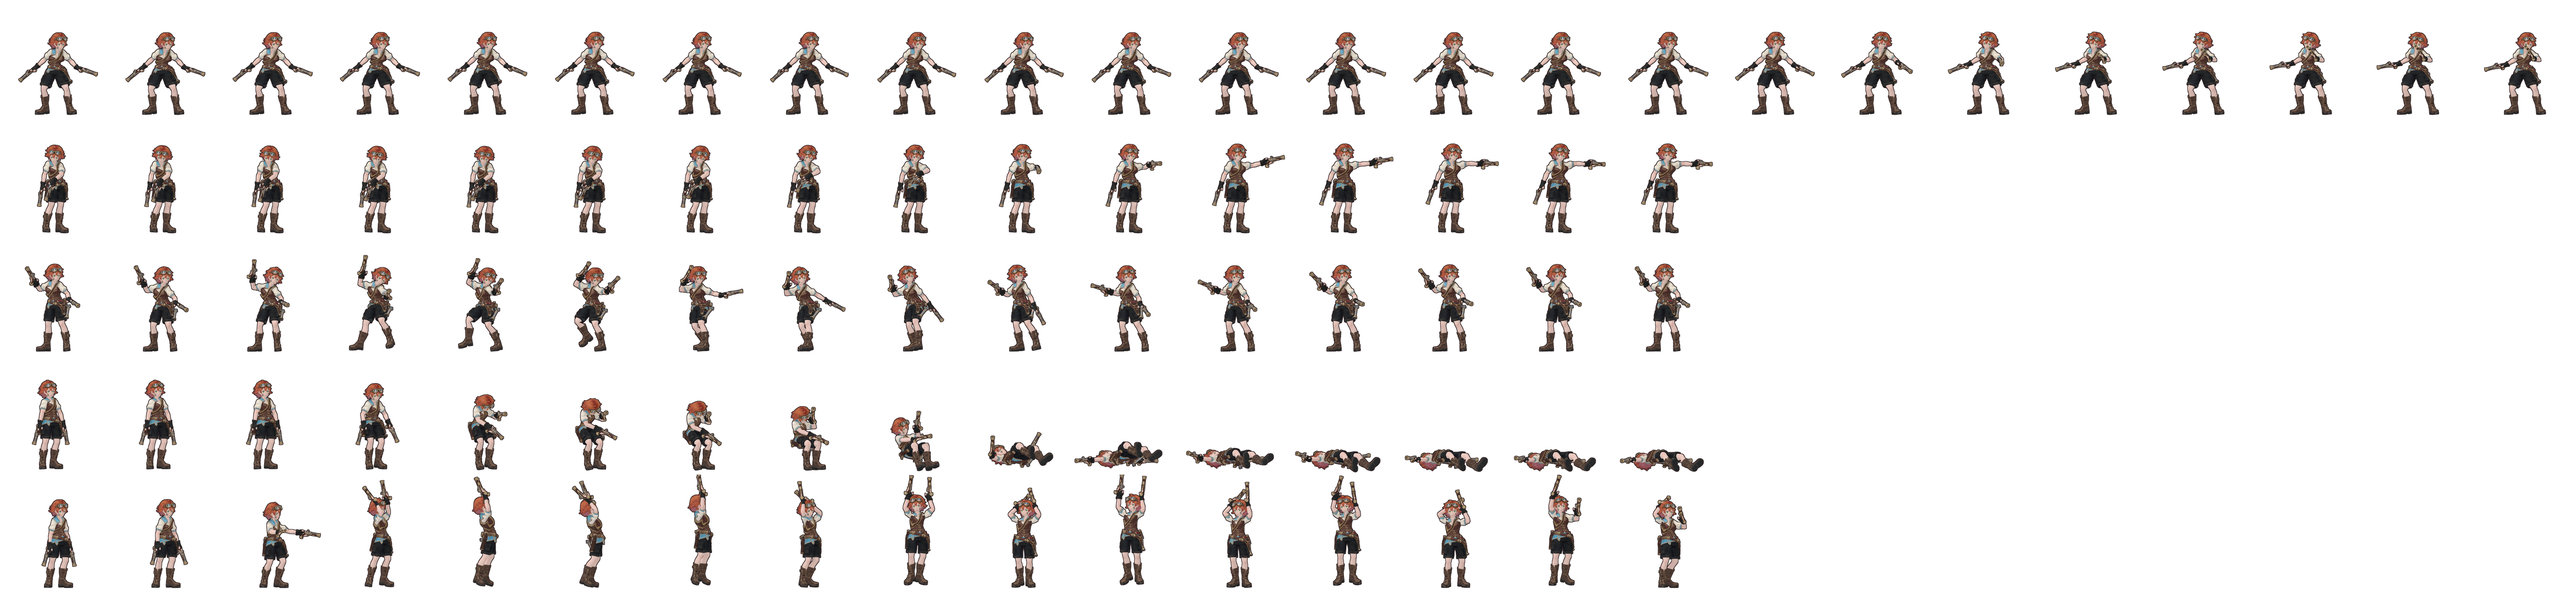
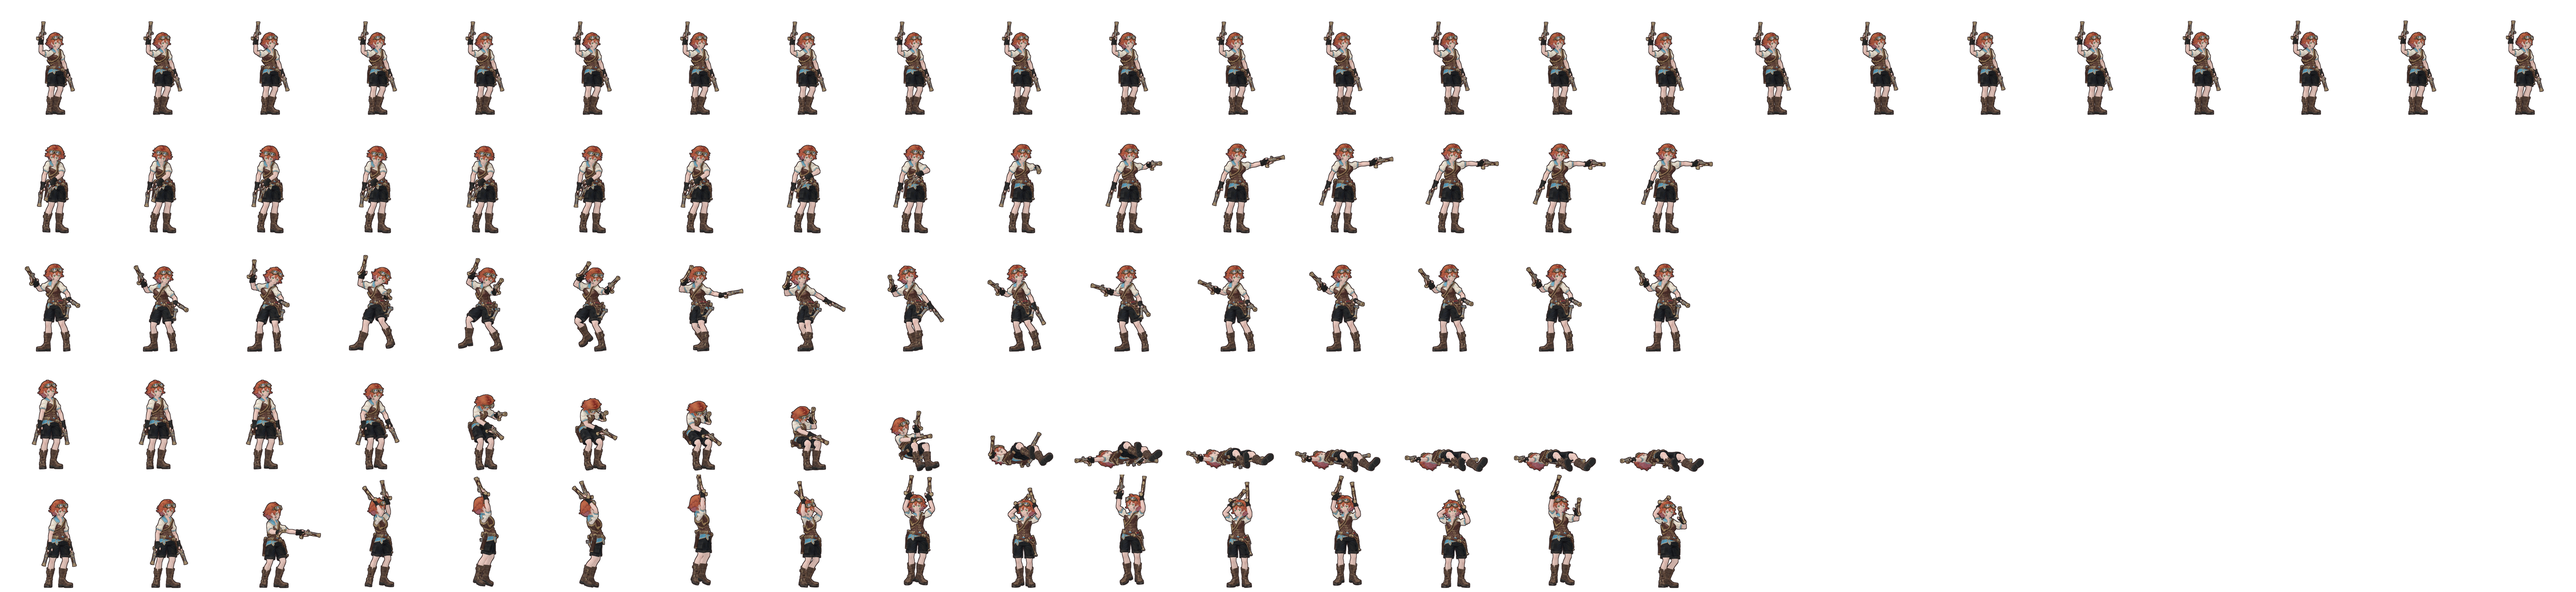
Кая: ожидание с поднятым пистолем стволом вверх и вторым у бедра
render_sprites.py: позы рук поверх клипа (pose=idle:pirate) — кости рук
доворачиваются в заданные направления, кривые этих костей из клипа
убираются, чтобы рендер их не перетирал.

Changed region(s): [[0.0, 0.0312, 1.0, 0.2188]]

diff --git a/tools/meshy/render_sprites.py b/tools/meshy/render_sprites.py
@@ -30,7 +30,23 @@ OPTS = [a.split("=", 1) for a in args[1:]]
 TURN = math.radians(float(next((v for k, v in OPTS if k == "turn"), math.degrees(TURN))))
 PROPS = [v.split(":") for k, v in OPTS if k == "prop"]
 MAX_FRAMES = int(next((v for k, v in OPTS if k == "frames"), MAX_FRAMES))
-CLIPS = {k: v for k, v in OPTS if k not in ("turn", "prop", "frames")}
+# pose=<клип>:<заготовка> — поверх клипа держать руки в позе из POSES (например, idle:pirate).
+POSE_OF = dict(v.split(":") for k, v in OPTS if k == "pose")
+CLIPS = {k: v for k, v in OPTS if k not in ("turn", "prop", "frames", "pose")}
+
+# Позы рук поверх клипа: кость → направление (от начала к концу кости) в системе персонажа,
+# который смотрит на камеру: -X — его правая сторона, -Y — вперёд, +Z — вверх.
+POSES = {
+    # Пистоль в поднятой правой руке стволом вверх, левая опущена к бедру стволом вниз.
+    "pirate": [
+        ("RightArm", (-1.0, 0.0, 0.05)),
+        ("RightForeArm", (-0.05, -0.1, 1.0)),
+        ("RightHand", (0.0, -0.12, 1.0)),
+        ("LeftArm", (0.25, 0.05, -1.0)),
+        ("LeftForeArm", (0.25, -0.3, -1.0)),
+        ("LeftHand", (0.15, -0.3, -1.0)),
+    ],
+}
 PROP_LENGTH = 0.36   # длина оружия, м (при росте модели ~1,6 м — стилизованно крупное)
 SRC = os.path.join(ROOT, "art", "meshy", NAME)
 
@@ -175,6 +191,42 @@ def attach_prop(arm, path, bone_name, grip_axis):
     return prop
 
 
+def action_curves(action):
+    """Все кривые действия (в Blender 5 они лежат в слоях и полосах)."""
+    curves = list(getattr(action, "fcurves", None) or [])
+    for layer in getattr(action, "layers", []):
+        for strip in layer.strips:
+            for bag in strip.channelbags:
+                curves += [(bag, fc) for fc in bag.fcurves]
+    return curves
+
+
+def free_bones(action, names):
+    """Убрать из клипа кривые костей позы: иначе при рендере клип перетрёт заданный поворот."""
+    for item in action_curves(action):
+        bag, fc = item if isinstance(item, tuple) else (action, item)
+        if any(fc.data_path.startswith(f'pose.bones["{n}"]') for n in names):
+            bag.fcurves.remove(fc)
+
+
+def apply_pose(arm, turn, preset):
+    """Довернуть кости рук в направления заготовки (после того как кадр клипа выставлен)."""
+    to_world = turn.matrix_world.to_3x3().normalized()
+    to_arm = arm.matrix_world.to_3x3().inverted()
+    for name, direction in POSES[preset]:
+        pb = arm.pose.bones.get(name)
+        if pb is None:
+            continue
+        target = (to_arm @ (to_world @ Vector(direction))).normalized()
+        m = pb.matrix.copy()
+        y = m.to_3x3().col[1].normalized()
+        rot = y.rotation_difference(target).to_matrix() @ m.to_3x3()
+        new = rot.to_4x4()
+        new.translation = m.translation
+        pb.matrix = new
+        bpy.context.view_layer.update()
+
+
 def hips(arm):
     """Кость таза (или корневая кость, если таза нет)."""
     bones = arm.pose.bones
@@ -262,6 +314,8 @@ def render_clip(clip, action_id, height):
     os.makedirs(out, exist_ok=True)
     for old in os.listdir(out):
         os.remove(os.path.join(out, old))
+    if clip in POSE_OF and action:
+        free_bones(action, [name for name, _ in POSES[POSE_OF[clip]]])
     x0 = None
     for i, f in enumerate(frames):
         # Клип на месте: таз держим в одной точке по горизонтали экрана (X), глубина не видна.
@@ -271,6 +325,8 @@ def render_clip(clip, action_id, height):
         x0 = x if x0 is None else x0
         turn.location = (x0 - x, 0, 0)
         bpy.context.view_layer.update()
+        if clip in POSE_OF:
+            apply_pose(arm, turn, POSE_OF[clip])
         sc.render.filepath = os.path.join(out, f"{i:04d}.png")
         bpy.ops.render.render(write_still=True)
     fps = sc.render.fps / max(1, (end - start) / max(1, count - 1))

diff --git a/.studioigor/DECISIONS.md b/.studioigor/DECISIONS.md
@@ -45,3 +45,4 @@ decision is not deleted: a new line says "replaces #N".
 | 37 | 2026-11-19 | 6 | Кая и Мэй на поле боя — 3D-модели Meshy (по фронтальному ракурсу nano-banana, авториг, клипы библиотеки), отрендеренные в 2D спрайт-листы (tools/meshy/); остальные бойцы пока заглушки | — | user | пользователь взял подписку Meshy и попросил нормальные 2D-модели с анимациями двух героинь |
 | 38 | 2026-11-19 | 6 | ближний и дальний бой: дальнобойные (Кая, Лира, Мэй, Сора, стрелок, скат) не бегут к цели, а стреляют с места — снаряд по data/battlefield.json ranged; Кая и Мэй перегенерированы в Meshy с оружием в руках (пистоли, склянка) | — | agent | пользователь: «стоит понять кто из них милишник, кто дальник», оружия не видно, атак нет; роли из data/heroes.json: gunner, medic, navigator, wind_shaman — дальние |
 | 39 | 2026-11-19 | 6 | Кая: модель Meshy по исходному референсу + пистоли отдельным предметом на кости кисти (art/meshy/pistol), стойка 248 и выстрел 236; Мэй: спокойное ожидание 244; ожидания — отрезок 4 с туда-обратно, без оглядываний | — | user | пользователь: «постоянно оглядываются», персонаж с пистолетами «не очень красивый», просил готовые анимации стрельбы с сайта |
+| 40 | 2026-11-19 | 6 | Кая в ожидании держит пистоли как на образце пользователя: правый поднят стволом вверх, левый у бедра стволом вниз (поза pirate поверх спокойного ожидания 244) | — | user | пользователь прислал образец хвата пистолей |

diff --git a/.studioigor/DESIGN.md b/.studioigor/DESIGN.md
@@ -87,3 +87,4 @@ acceptance criteria · "feel" (targets) · research: research/mech-M01.md -->
 | 2026-11-19 | M06: Кая и Мэй — анимированные спрайт-листы из моделей Meshy (ожидание, атака, умение у Мэй, удар, смерть, победа); кадр выбирается по клипу рига, рывки и отбросы рига остаются | пользователь: «нормальные 2д модели и анимации хотя бы пары основных моделек девочек» |
 | 2026-11-19 | M06: дальнобойные стреляют с места (пуля, склянка дугой, ветер, разряд) вместо рывка к цели; Кая и Мэй — новые модели Meshy с пистолями и склянкой в руках, клипы атаки — окно вокруг выстрела/броска | пользователь: обе выглядели милишниками, оружия не видно |
 | 2026-11-19 | M06: Кая — исходная модель Meshy с пистолями на кистях (стойка с оружием, выстрел вытянутой рукой), Мэй — спокойное ожидание; ожидание без оглядываний, играет туда и обратно | пользователь: «постоянно оглядываются», Кая «не очень красивая» |
+| 2026-11-19 | M06: ожидание Каи — правый пистоль поднят стволом вверх, левый у бедра стволом вниз (поза рук поверх спокойного клипа) | пользователь: «хочу чтобы пушки она держала вот таким образом» (образец в буфере) |
